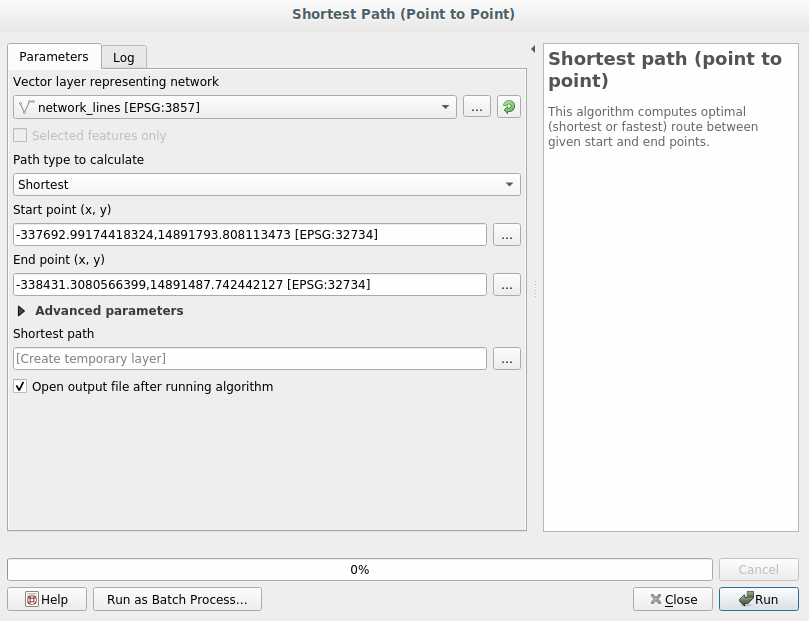
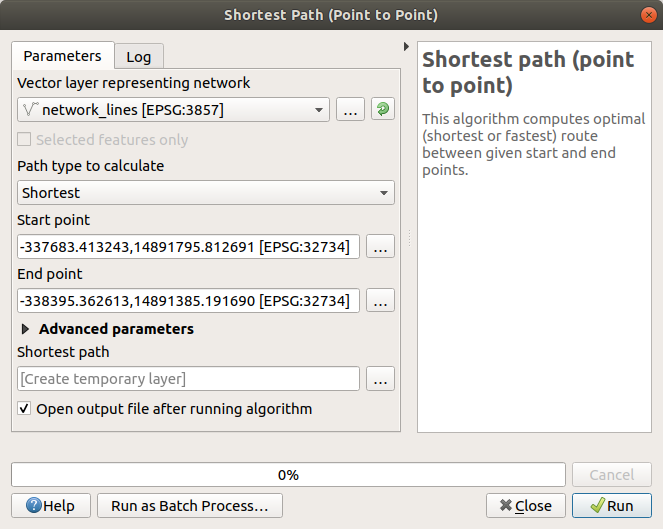
Update the network analysis part of the vector analysis TM module

Changed region(s): [[0.0, 0.0, 1.0, 0.8166], [0.0, 0.8166, 0.9955, 0.9981]]

diff --git a/docs/training_manual/vector_analysis/network_analysis.rst b/docs/training_manual/vector_analysis/network_analysis.rst
@@ -1,107 +1,117 @@
 |LS| Network Analysis
-===============================================================================
+======================================================================
 
-Calculating the shortest distance between two points is a commonly cited use
-for GIS. Tools for this can be found in the :guilabel:`Processing` toolbox.
+Calculating the shortest distance between two points is a common GIS
+task.
+Tools for this can be found in the :guilabel:`Processing Toolbox`.
 
-**The goal for this lesson:** learn to use :guilabel:`Network analysis`
-algorithms.
+**The goal for this lesson:** learn to use
+:guilabel:`Network analysis` algorithms.
 
 |basic| |FA| The Tools and the Data
--------------------------------------------------------------------------------
+----------------------------------------------------------------------
 
 You can find all the network analysis algorithms in the
-:menuselection:`Processing --> Network Analysis` menu. You can see that there
-are many tools available:
+:menuselection:`Processing --> Network Analysis` menu.
+You can see that there are many tools available:
 
 .. figure:: img/select_network_algorithms.png
    :align: center
    :width: 75%
 
-Open the project :file:`exercise_data/network_analysis/network.qgz`, it contains
-two layers:
+Open the project :file:`exercise_data/network_analysis/network.qgz`.
+It contains two layers:
 
-1. :guilabel:`network_points`
-2. :guilabel:`network_lines`
+* ``network_points``
+* ``network_lines``
 
-As you can see the :guilabel:`network_lines` layer has already a style that helps
-to understand the road network.
+The :guilabel:`network_lines` layer has already a style that helps to
+understand the road network.
 
 .. figure:: img/network_map.png
    :align: center
    :width: 100%
 
-The shortest path tools provide ways to calculate either the shortest or the fastest path
-between two points of a network, given:
+The shortest path tools provide ways to calculate either the shortest
+or the fastest path between two points of a network, given:
 
-* start point and end point selected on the map
-* start point selected on the map and end points taken from a point layer
-* start points taken from a point layer and end point selected on the map
+* start and end points selected on the map
+* start point selected on the map and end points taken from a point
+  layer
+* start points taken from a point layer and end point selected on the
+  map
 
 Let's start.
 
 |basic| Calculate the shortest path (point to point)
-----------------------------------------------------
-The :menuselection:`Network analysis --> Shortest path (point to point)` allows
-you to calculate the shortest distance between two manually selected points on
-the map.
+----------------------------------------------------------------------
+The
+:menuselection:`Network analysis --> Shortest path (point to point)`
+allows you to calculate the shortest distance between two manually
+selected points on the map.
 
-In this example we will calculate the **shortest** (not fastest) path between two
-points.
+In this example we will calculate the **shortest** (not fastest) path
+between two points.
 
-In the following image we choose these two points as starting and ending point
-for the analysis:
-
-.. figure:: img/start_end_point.png
-   :align: center
-   :width: 100%
 
 #. Open the :guilabel:`Shortest path (point to point)` algorithm
-#. Select :guilabel:`network_lines` for :guilabel:`Vector layer representing network`
-#. Let ``Shortest`` in the :guilabel:`Path type to calculate` parameter
-#. Click on the :guilabel:`...` button next to the :guilabel:`Start point (x, y)`
-   and choose the location tagged with ``Starting Point`` in the picture. The menu
-   is filled with the coordinates of the clicked point.
-#. Do the same thing but choosing the location tagged with ``Ending point`` for
-   :guilabel:`End point (x, y)`
+#. Select :guilabel:`network_lines` for
+   :guilabel:`Vector layer representing network`
+#. Use ``Shortest`` for :guilabel:`Path type to calculate`
+
+   Use these two points as starting and ending points for the
+   analysis:
+
+   .. figure:: img/start_end_point.png
+      :align: center
+      :width: 100%
+
+#. Click on the :guilabel:`...` button next to
+   :guilabel:`Start point (x, y)` and choose the location tagged with
+   ``Starting Point`` in the picture.
+   The coordinates of the clicked point are added.
+#. Do the same thing, but choosing the location tagged with
+   ``Ending point`` for :guilabel:`End point (x, y)`
 #. Click on the :guilabel:`Run` button:
 
    .. figure:: img/shortest_point.png
       :align: center
       :width: 100%
 
-#. A new line layer is created representing the shortest path between the chosen
-   points. Uncheck the :guilabel:`network_lines` layer to see the result better:
+#. A new line layer is created representing the shortest path between
+   the chosen points.
+   Uncheck the ``network_lines`` layer to see the result better:
 
    .. figure:: img/shortest_point_result.png
       :align: center
       :width: 100%
 
-#. Let's open the attribute table of the output layer. It contains three fields,
-   representing the coordinates of the starting and ending points and the
-   **cost**.
+#. Open the attribute table of the output layer.
+   It contains three fields, representing the coordinates of the
+   start and end points and the **cost**.
 
-   We chose ``Shortest`` as :guilabel:`Path type to calculate`, so the **cost**
-   represent the **distance**, in layer units, between the two locations.
+   We chose ``Shortest`` as :guilabel:`Path type to calculate`, so
+   the **cost** represent the **distance**, in layer units, between
+   the two locations.
 
-   In our case, the *shortest* distance between the chosen points is around ``1000``
-   meters:
+   In our case, the *shortest* distance between the chosen points is
+   around ``1000`` meters:
 
    .. figure:: img/shortest_point_attributes.png
       :align: center
       :width: 100%
 
-Now that you know how to use the tool, feel free to change them and test other
+Now that you know how to use the tool, feel free to test other
 locations.
 
 
 .. _backlink-network_analysis_1:
 
 |moderate| |TY| Fastest path
---------------------------------------------------------------------------------
+----------------------------------------------------------------------
 
-With the same data of the previous exercise, try to calculate the fastest path
-between the two points.
+With the same data of the previous exercise, try to calculate the
+fastest path between the two points.
 
 How much time do you need to go from the start to the end point?
 
@@ -109,119 +119,133 @@ How much time do you need to go from the start to the end point?
 
 
 |moderate| |FA| Advanced options
--------------------------------------------------------------------------------
+----------------------------------------------------------------------
 
-Let's explore some more options of the Network Analysis tools. In the :ref:`previous
-exercise <backlink-network_analysis_1>` we calculated the **fastest** route
-between two points. As you can imagine, the time depends on the travel **speed**.
+Let us explore some more options of the Network Analysis tools.
+In the :ref:`previous exercise <backlink-network_analysis_1>` we
+calculated the **fastest** route between two points.
+As you can imagine, the time depends on the travel **speed**.
 
-We will use the same layers and same starting and ending points of the previous
-exercises.
+We will use the same layers and starting and ending points of the
+previous exercises.
 
 #. Open the :guilabel:`Shortest path (point to point)` algorithm
-#. Fill the :guilabel:`Input layer`, :guilabel:`Start point (x, y)` and
-   :guilabel:`End point (x, y)` as we did before
+#. Fill the :guilabel:`Input layer`, :guilabel:`Start point (x, y)`
+   and :guilabel:`End point (x, y)` as we did before
 #. Choose ``Fastest`` as the :guilabel:`Path type to calculate`
 #. Open the :guilabel:`Advanced parameter` menu
-#. Change the :guilabel:`Default speed (km/h)` from the default ``50`` value to
-   ``4``
+#. Change the :guilabel:`Default speed (km/h)` from the default ``50``
+   value to ``4``
 
    .. figure:: img/shortest_path_advanced.png
       :align: center
       :width: 100%
 
 #. Click on :guilabel:`Run`
-#. Once the algorithm is finished, close the dialog and open the attribute table of
-   the output layer.
+#. Once the algorithm is finished, close the dialog and open the
+   attribute table of the output layer.
 
-   The :guilabel:`cost` field contains the value according to the speed parameter
-   you have chosen. We can convert the :guilabel:`cost` field from hours with
-   fractions to the more readable *minutes* values.
+   The *cost* field contains the value according to the speed
+   parameter you have chosen.
+   We can convert the *cost* field from hours with fractions to the
+   more readable *minutes* values.
 
-#. Open the field calculator by clicking on the |calculateField| icon and add the
-   new field :guilabel:`minutes` by multiplying the :guilabel:`cost` field by 60:
+#. Open the field calculator by clicking on the |calculateField| icon
+   and add the new field :guilabel:`minutes` by multiplying the
+   :guilabel:`cost` field by 60:
 
    .. figure:: img/shortest_path_conversion.png
       :align: center
       :width: 100%
 
-That's it! Now you know how many minutes it will take to get from one point to
+That's it!
+Now you know how many minutes it will take to get from one point to
 the other one.
 
 
 |hard| Shortest map with speed limit
--------------------------------------------------------------------------------
-The Network analysis toolbox has other interesting options. Looking at the
-following map:
+----------------------------------------------------------------------
+The Network analysis toolbox has other interesting options. Looking
+at the following map:
 
 .. figure:: img/speed_limit.png
    :align: center
    :width: 100%
 
-we would like to know the **fastest** route considering the **speed limits** of
-each road (the labels represent the speed limits in km/h). The shortest path
-without considering speed limits would of course be the purple path. But in that
-road the speed limit is 20 km/h, while in the green road you can go at 100 km/h!
+we would like to know the **fastest** route considering the **speed
+limits** of each road (the labels represent the speed limits in
+km/h).
+The shortest path without considering speed limits would of course be
+the purple path.
+But in that road the speed limit is 20 km/h, while in the green road
+you can go at 100 km/h!
 
 As we did in the first exercise, we will use the
-:menuselection:`Network analysis --> Shortest path (point to point)` and we will
-manually choose the start and end points.
+:menuselection:`Network analysis --> Shortest path (point to point)` and we will manually choose the start and end points.
 
-#. Open the :menuselection:`Network analysis --> Shortest path (point to point)`
+#. Open the
+   :menuselection:`Network analysis --> Shortest path (point to point)`
    algorithm
-#. Select :guilabel:`network_lines` for the :guilabel:`Vector layer representing network`
-   parameter
+#. Select :guilabel:`network_lines` for the
+   :guilabel:`Vector layer representing network` parameter
 #. Choose ``Fastest`` as the :guilabel:`Path type to calculate`
-#. Click on the :guilabel:`...` button next to the :guilabel:`Start point (x, y)`
-   and choose the location tagged with ``Start Point`` in the picture. The menu
-   is filled with the coordinates of the clicked point.
-#. Do the same thing but choosing the location tagged with ``End point`` for
-   :guilabel:`End point (x, y)`
+#. Click on the :guilabel:`...` button next to the
+   :guilabel:`Start point (x, y)` and choose the start point.
+#. Do the same thing for :guilabel:`End point (x, y)`
 #. Open the :guilabel:`Advanced parameters` menu
-#. Choose the ``speed`` field as the :guilabel:`Speed Field` parameter. With this
-   option the algorithm will take into account the speed values for each road.
+#. Choose the *speed* field as the :guilabel:`Speed Field`
+   parameter.
+   With this option the algorithm will take into account the speed
+   limits for each road.
 
    .. figure:: img/speed_limit_parameters.png
       :align: center
       :width: 100%
 
 #. Click on the :guilabel:`Run` button
-#. Turn off the :guilabel:`network_lines` layer to better see the result
+#. Turn off the ``network_lines`` layer to better see the result
 
    .. figure:: img/speed_limit_result.png
       :align: center
       :width: 100%
 
-As you can see the fastest route does not correspond to the shortest one.
+As you can see the fastest route does not correspond to the shortest
+one.
 
 
 |moderate| Service area (from layer)
--------------------------------------------------------------------------------
-The :menuselection:`Network Analysis --> Service area (from layer)` algorithm
-can answer the question: given a point layer, what are all the reachable areas
-given a distance or a time value?
+----------------------------------------------------------------------
+The :menuselection:`Network Analysis --> Service area (from layer)`
+algorithm can answer the question: given a point layer, what are all
+the reachable areas given a distance or a time value?
 
-.. note:: The :menuselection:`Network Analysis --> Service area (from point)`
-    is the same algorithm but, it allows you to manually choose the point on the
-    map.
+.. note:: The
+   :menuselection:`Network Analysis --> Service area (from point)`
+   is the same algorithm, but it allows you to manually choose the
+   point on the map.
 
-Given a distance of ``250`` meters we want to know how far we can go on the
-network from each point of the :guilabel:`network_points` layer.
+Given a distance of ``250`` meters we want to know how far we can go
+on the network from each point of the :guilabel:`network_points`
+layer.
 
-#. Uncheck all the layers except :guilabel:`network_points`
-#. Open the :menuselection:`Network Analysis --> Service area (from layer)` algorithm
-#. Choose :guilabel:`network_lines` for :guilabel:`Vector layer representing network`
-#. Choose :guilabel:`network_points` for :guilabel:`Vector layer with start points`
+#. Uncheck all the layers except ``network_points``
+#. Open the
+   :menuselection:`Network Analysis --> Service area (from layer)`
+   algorithm
+#. Choose ``network_lines`` for
+   :guilabel:`Vector layer representing network`
+#. Choose ``network_points`` for
+   :guilabel:`Vector layer with start points`
 #. Choose ``Shortest`` in :guilabel:`Path type to calculate`
-#. Enter ``250`` in the :guilabel:`Travel cost` parameter
-#. Click on :guilabel:`Run` and then close the dialog
+#. Enter ``250`` for the :guilabel:`Travel cost` parameter
+#. Click on :guilabel:`Run` and close the dialog
 
    .. figure:: img/service_area.png
       :align: center
       :width: 100%
 
-   The output layer represents the maximum path you can reach from the point features
-   given a distance of 250 meters:
+   The output layer represents the maximum path you can reach from
+   the point features given a distance of 250 meters:
 
    .. figure:: img/service_area_result.png
       :align: center
@@ -230,16 +254,17 @@ network from each point of the :guilabel:`network_points` layer.
 Cool isn't it?
 
 |IC|
--------------------------------------------------------------------------------
+----------------------------------------------------------------------
 
-Now you know how to use :guilabel:`Network analysis` algorithm to solve
-shortest-fastest path problems.
+Now you know how to use :guilabel:`Network analysis` algorithm to
+solve shortest and fastest path problems.
 
-We are now ready to perform some spatial statistic on vector layer data. Let's
-go!
+We are now ready to perform some spatial statistic on vector layer
+data.
+Let's go!
 
 |WN|
--------------------------------------------------------------------------------
+----------------------------------------------------------------------
 
 Next you'll see how to run spatial statistics algorithms on vector datasets.
 
